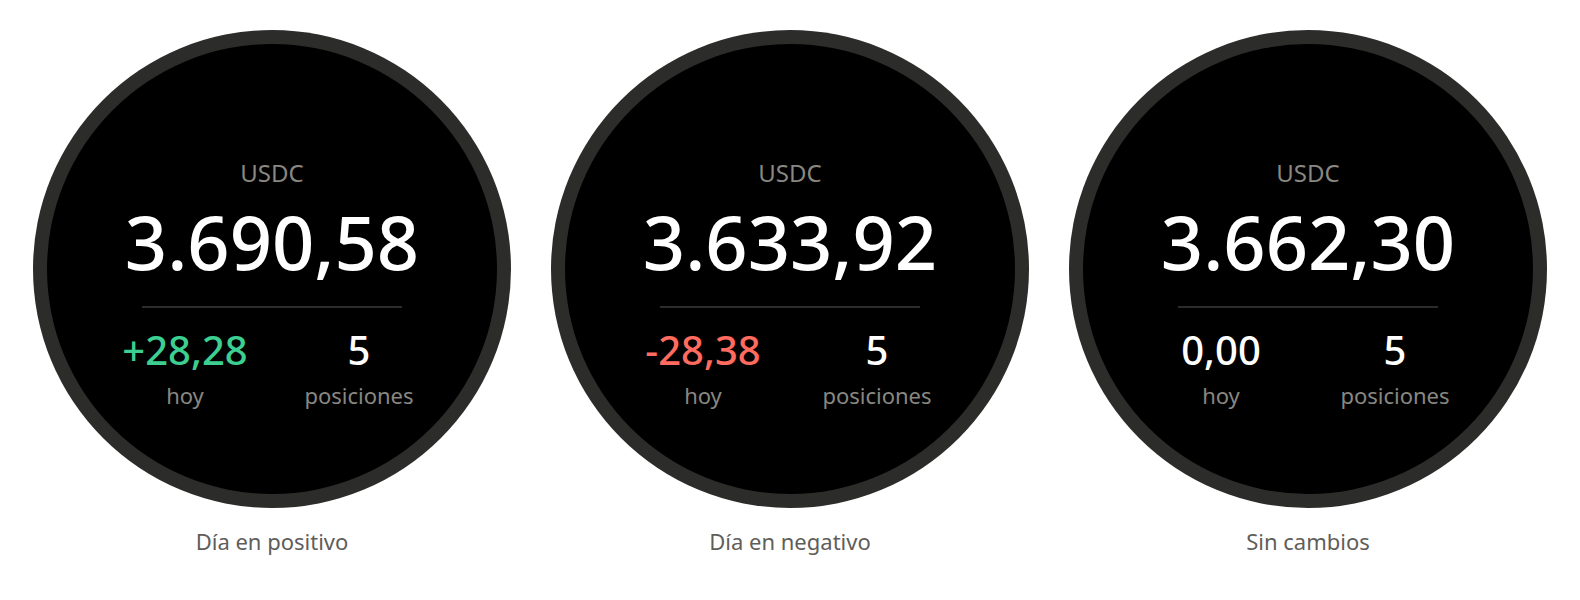
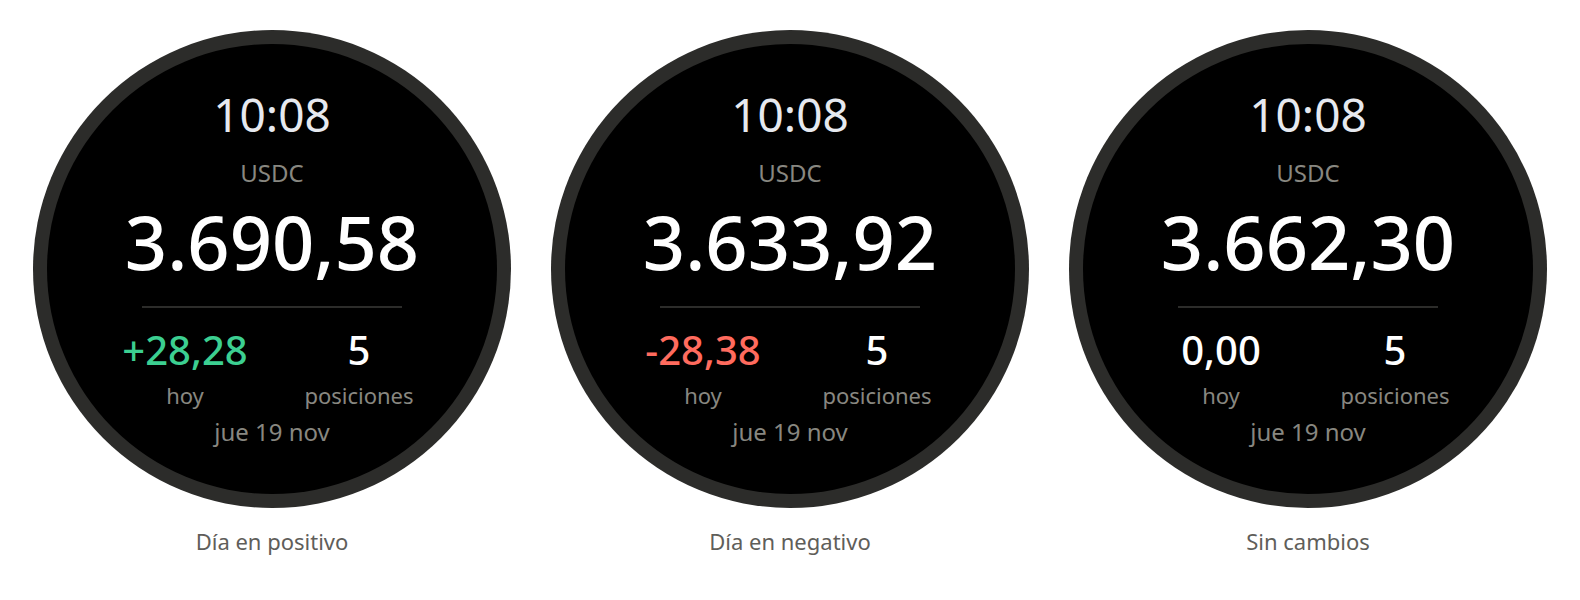
Show the time and date on the watch face
Time on top, small so the account value stays the largest figure, and kept in
ambient mode; the date at the bottom in the watch's language ("jue 19 nov").

Today's result is green with a "+" only when its text starts with a digit:
anything else (the "+" Home Assistant shows until a sensor is chosen, an error)
is drawn as is in white, instead of "++" in green. Checked on a Galaxy Watch 5.

diff --git a/wear/okx-journal-face/preview/states.html b/wear/okx-journal-face/preview/states.html
@@ -17,7 +17,9 @@
   for (const [value, today, color, caption] of states) {
     document.getElementById("row").insertAdjacentHTML("beforeend", `
     <div class="watch"><div class="bezel"><div class="face">
+      <div class="t" style="left:125px;top:42px;width:200px;height:56px;font-size:46px;line-height:56px;color:#e6e9ef">10:08</div>
       <div class="t" style="left:125px;top:112px;width:200px;height:34px;font-size:24px;line-height:34px;color:#888780">USDC</div>
+      <div class="t" style="left:105px;top:372px;width:240px;height:32px;font-size:24px;line-height:32px;color:#888780">jue 19 nov</div>
       <div class="t" style="left:30px;top:148px;width:390px;height:100px;font-size:74px;line-height:100px;font-weight:500;color:#fff">${value}</div>
       <div style="position:absolute;left:95px;top:262px;width:260px;height:2px;background:#2c2c2a"></div>
       <div class="t" style="left:58px;top:276px;width:160px;height:60px;font-size:40px;line-height:60px;font-weight:500;color:${color}">${today}</div>

diff --git a/wear/okx-journal-face/preview/preview.html b/wear/okx-journal-face/preview/preview.html
@@ -9,7 +9,9 @@
   .t { position: absolute; text-align: center; white-space: nowrap; }
 </style></head><body>
 <div class="face">
+  <div class="t" style="left:125px;top:42px;width:200px;height:56px;font-size:46px;line-height:56px;color:#e6e9ef">10:08</div>
   <div class="t" style="left:125px;top:112px;width:200px;height:34px;font-size:24px;line-height:34px;color:#888780">USDC</div>
+  <div class="t" style="left:105px;top:372px;width:240px;height:32px;font-size:24px;line-height:32px;color:#888780">jue 19 nov</div>
   <div class="t" style="left:30px;top:148px;width:390px;height:100px;font-size:74px;line-height:100px;font-weight:500;color:#fff">3.690,58</div>
   <div style="position:absolute;left:95px;top:262px;width:260px;height:2px;background:#2c2c2a"></div>
   <div class="t" style="left:58px;top:276px;width:160px;height:60px;font-size:40px;line-height:60px;font-weight:500;color:#3ccf91">+28,28</div>

diff --git a/wear/README.md b/wear/README.md
@@ -16,13 +16,17 @@ Está hecha con [Watch Face Format](https://developer.android.com/training/weara
 **complicaciones** de la app de Home Assistant, a partir de los sensores que publica la app
 [Bitácora OKX](../okx_journal/DOCS.md):
 
+Arriba va la hora (12 o 24 h, según el reloj) y abajo la fecha en el idioma del reloj
+(«jue 19 nov»). Entre ellas, tres huecos:
+
 | Hueco | Sensor | Cómo se ve |
 |---|---|---|
-| Arriba, grande | `sensor.okx_journal_valor` | blanco |
-| Abajo, izquierda | `sensor.okx_journal_resultado_hoy` | verde si sube, rojo si baja, blanco si es 0 |
+| Centro, grande | `sensor.okx_journal_valor` | blanco |
+| Abajo, izquierda | `sensor.okx_journal_resultado_hoy` | verde si sube, rojo si baja, blanco si es 0 o no es un número |
 | Abajo, derecha | `sensor.okx_journal_posiciones` | blanco |
 
-En el modo de pantalla siempre encendida los números se atenúan y la línea desaparece.
+En el modo de pantalla siempre encendida la hora se mantiene, los números y la fecha se
+atenúan y la línea desaparece.
 
 ### 1. Compilar
 
@@ -63,8 +67,11 @@ cada uno:
 2. Elige **Home Assistant → Estado de entidad** y el sensor de la tabla de arriba.
 3. Deja **sin unidad** cada complicación: la esfera ya pone «USDC», «hoy» y «posiciones».
 
-Mientras un hueco no tenga sensor elegido, Home Assistant muestra «Estado de la entidad». Si
-muestra `--`, no tiene ninguna complicación asignada.
+Mientras un hueco no tenga sensor elegido, Home Assistant muestra «Estado de la entidad» o un
+«+». Si muestra `--`, no tiene ninguna complicación asignada.
+
+**Al actualizar la esfera** (instalar una versión nueva) el Galaxy Watch reinicia los huecos y
+hay que volver a elegir los tres sensores.
 
 Probada en un Galaxy Watch 5 (SM-R860) con Wear OS 6.
 

diff --git a/README.md b/README.md
@@ -61,8 +61,9 @@ por activo y notas propias en cada operación. Guarda el histórico en MariaDB.
 
 ### ⌚ Y en la muñeca
 
-La esfera **Bitácora OKX** para Wear OS (pensada para el Galaxy Watch 5) muestra el valor de la
-cuenta, el resultado de hoy en verde, rojo o blanco, y las posiciones abiertas. Toma los datos
+La esfera **Bitácora OKX** para Wear OS (probada en un Galaxy Watch 5) muestra el valor de la
+cuenta, el resultado de hoy en verde, rojo o blanco, y las posiciones abiertas, con la hora
+arriba y la fecha abajo. Toma los datos
 de Home Assistant y no necesita ninguna app propia en el móvil. [Cómo instalarla](wear/README.md).
 
 <p align="center"><img src="docs/img/watch-face.png" alt="La esfera Bitácora OKX en un día positivo, uno negativo y uno sin cambios" width="820"></p>

diff --git a/docs/manual.md b/docs/manual.md
@@ -152,8 +152,8 @@ make journal                              # panel en http://localhost:8099
 
 ## Esfera para el reloj
 
-La esfera **Bitácora OKX** para Wear OS muestra en el reloj el valor de la cuenta, el resultado
-de hoy (verde, rojo o blanco) y las posiciones abiertas, con los sensores de la Bitácora a
+La esfera **Bitácora OKX** para Wear OS muestra en el reloj la hora, la fecha, el valor de la
+cuenta, el resultado de hoy (verde, rojo o blanco) y las posiciones abiertas, con los sensores de la Bitácora a
 través de la app de Home Assistant para el reloj. Se actualiza cada 15 minutos.
 
 ```bash
